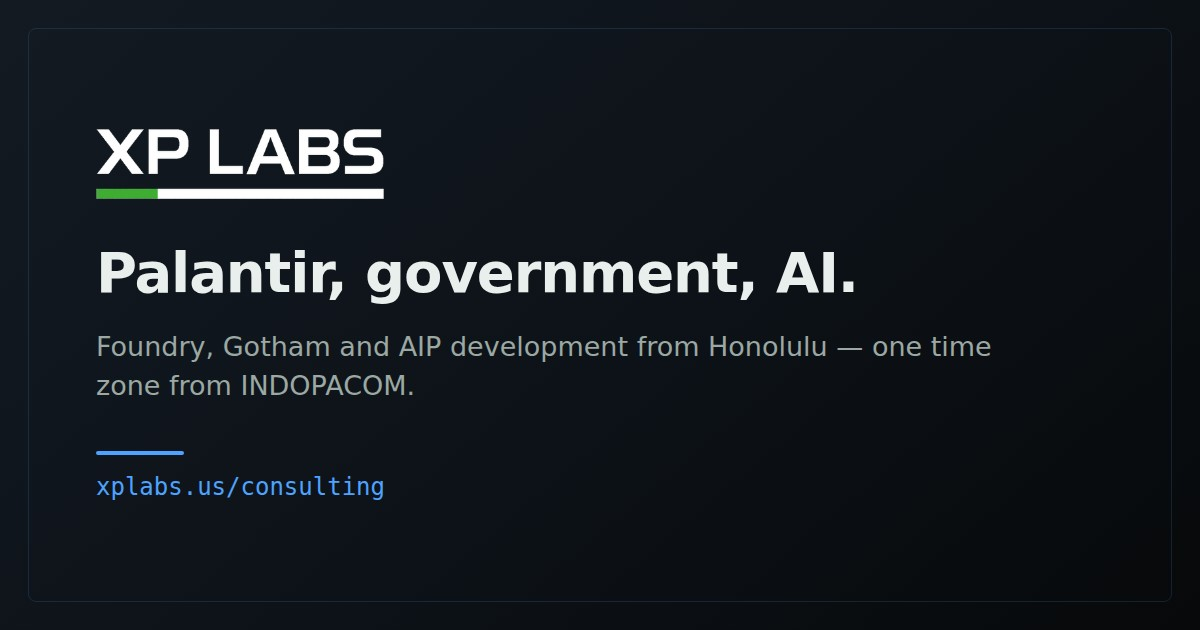
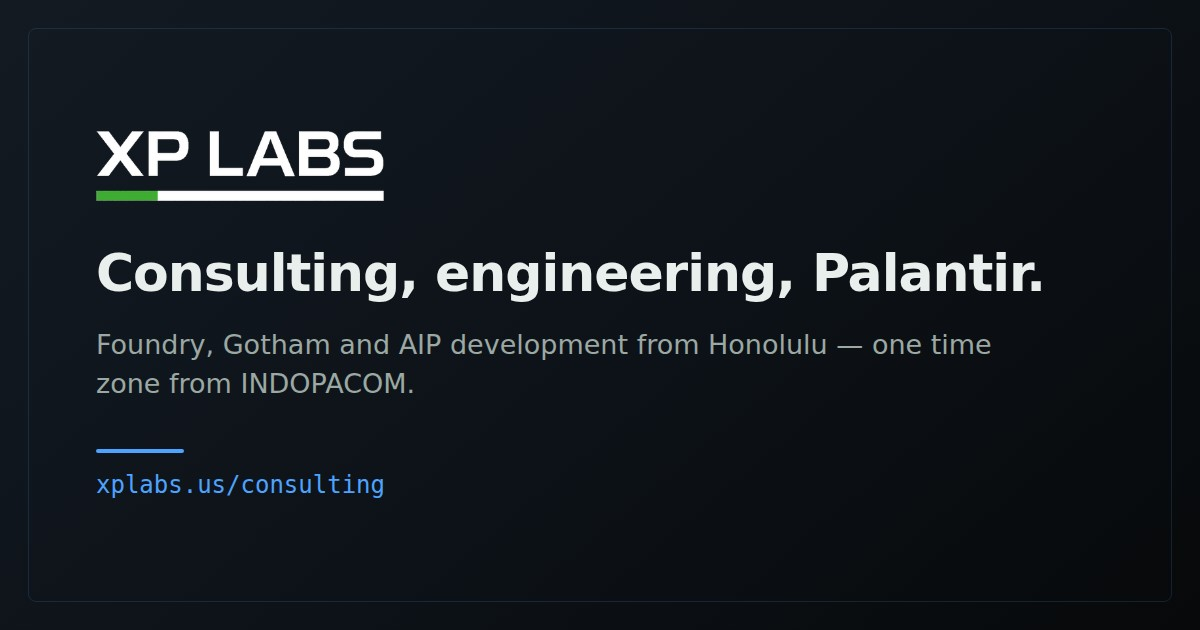
Lead the consulting page with consulting, engineering, Palantir
The headline now names the work in the order a buyer meets it: the
consulting and the engineering are what XPLabs is hired for, and
Palantir is the platform a growing share of that lands on. Leading on
the vendor read as a Palantir shop that also does other things, which
is the wrong way round.

The lead paragraph is reordered to follow the headline rather than
argue with it, and the same triad now runs through the page title, the
preview card and the nav subtitle on all ten pages that carry it. The
Palantir section itself, and its capability-not-past-performance note,
are unchanged.

Checked at desktop and phone widths for overflow; the longer headline
still sets on one line on the preview card.

Claude-Session: https://claude.ai/code/session_018S2unUdBGTgnSZF6RTnZGq

diff --git a/sites/www/consulting/index.html b/sites/www/consulting/index.html
@@ -3,21 +3,21 @@
 <head>
 <meta charset="utf-8">
 <meta name="viewport" content="width=device-width, initial-scale=1">
-<title>Palantir &amp; government consulting — XPLabs</title>
+<title>Consulting, engineering, Palantir — XPLabs</title>
 <meta name="description" content="Palantir platform development from Honolulu: data consolidation, common operational picture (COP) creation, visualization and ontology work across Foundry, Gotham and AIP — plus government contract consulting and AI implementation.">
 <meta name="theme-color" content="#07090A">
 <meta name="color-scheme" content="dark">
 <link rel="icon" href="/favicon-32.png" sizes="32x32">
 <link rel="apple-touch-icon" href="/apple-touch-icon.png">
 <link rel="canonical" href="https://xplabs.us/consulting/">
-<meta property="og:title" content="Palantir &amp; government consulting — XPLabs">
+<meta property="og:title" content="Consulting, engineering, Palantir — XPLabs">
 <meta property="og:description" content="Palantir platform development from Honolulu — data consolidation, COP creation and visualization across Foundry, Gotham and AIP. One time zone from INDOPACOM.">
 <meta property="og:type" content="website">
 <meta property="og:url" content="https://xplabs.us/consulting/">
 <meta property="og:image" content="https://xplabs.us/consulting/og.jpg?v=2">
 <meta property="og:image:width" content="1200">
 <meta property="og:image:height" content="630">
-<meta property="og:image:alt" content="XP Labs — Palantir Foundry, Gotham and AIP development, government consulting and AI. xplabs.us/consulting">
+<meta property="og:image:alt" content="XP Labs — consulting, engineering and Palantir platform development. xplabs.us/consulting">
 <meta name="twitter:card" content="summary_large_image">
 <meta name="twitter:image" content="https://xplabs.us/consulting/og.jpg?v=2">
 
@@ -243,7 +243,7 @@ h1{font-size:var(--t-h2);line-height:1.04;letter-spacing:-.032em;margin:0 0 1.25
         </button>
         <div class="menu__panel" id="menu-businesses" hidden>
           <a href="https://play.xplabs.us/"><b>Games</b><span>Four titles, four stacks</span></a>
-          <a href="/consulting/"><b>Consulting</b><span>Palantir · government · AI</span></a>
+          <a href="/consulting/"><b>Consulting</b><span>Consulting · engineering · Palantir</span></a>
           <a href="/initiatives/"><b>Public Initiatives</b><span>Free education and benefits</span></a>
         </div>
       </div>
@@ -272,9 +272,9 @@ h1{font-size:var(--t-h2);line-height:1.04;letter-spacing:-.032em;margin:0 0 1.25
     <span class="tick" aria-hidden="true"><i></i><i></i><i></i><i></i></span>
     Consulting · Honolulu, Hawaii
   </p>
-  <h1>Palantir, government, AI.</h1>
-  <p class="lead">XPLabs builds on <strong>Palantir Foundry, Gotham and AIP</strong>, and takes on
-  public-sector consulting, custom software and AI implementation — with a bias toward systems that
+  <h1>Consulting, engineering, Palantir.</h1>
+  <p class="lead">XPLabs takes on public-sector consulting and custom engineering, and builds on
+  <strong>Palantir Foundry, Gotham and AIP</strong> — with a bias toward systems that
   <strong>still work when nobody is watching them</strong>.</p>
 </section>
 

diff --git a/sites/play/index.html b/sites/play/index.html
@@ -204,7 +204,7 @@ h1{font-size:var(--t-h2);line-height:1.04;letter-spacing:-.032em;margin:0 0 1.25
         </button>
         <div class="menu__panel" id="menu-businesses" hidden>
           <a href="/"><b>Games</b><span>Four titles, four stacks</span></a>
-          <a href="https://xplabs.us/consulting/"><b>Consulting</b><span>Palantir · government · AI</span></a>
+          <a href="https://xplabs.us/consulting/"><b>Consulting</b><span>Consulting · engineering · Palantir</span></a>
           <a href="https://xplabs.us/initiatives/"><b>Public Initiatives</b><span>Free education and benefits</span></a>
         </div>
       </div>

diff --git a/sites/www/about/index.html b/sites/www/about/index.html
@@ -196,7 +196,7 @@ h1{font-size:var(--t-h2);line-height:1.04;letter-spacing:-.032em;margin:0 0 1.25
         </button>
         <div class="menu__panel" id="menu-businesses" hidden>
           <a href="https://play.xplabs.us/"><b>Games</b><span>Four titles, four stacks</span></a>
-          <a href="/consulting/"><b>Consulting</b><span>Palantir · government · AI</span></a>
+          <a href="/consulting/"><b>Consulting</b><span>Consulting · engineering · Palantir</span></a>
           <a href="/initiatives/"><b>Public Initiatives</b><span>Free education and benefits</span></a>
         </div>
       </div>

diff --git a/sites/www/index.html b/sites/www/index.html
@@ -234,7 +234,7 @@ h1{font-size:var(--t-h2);line-height:1.04;letter-spacing:-.032em;margin:0 0 1.25
         </button>
         <div class="menu__panel" id="menu-businesses" hidden>
           <a href="https://play.xplabs.us/"><b>Games</b><span>Four titles, four stacks</span></a>
-          <a href="/consulting/"><b>Consulting</b><span>Palantir · government · AI</span></a>
+          <a href="/consulting/"><b>Consulting</b><span>Consulting · engineering · Palantir</span></a>
           <a href="/initiatives/"><b>Public Initiatives</b><span>Free education and benefits</span></a>
         </div>
       </div>

diff --git a/sites/www/initiatives/index.html b/sites/www/initiatives/index.html
@@ -215,7 +215,7 @@ h1{font-size:var(--t-h2);line-height:1.04;letter-spacing:-.032em;margin:0 0 1.25
         </button>
         <div class="menu__panel" id="menu-businesses" hidden>
           <a href="https://play.xplabs.us/"><b>Games</b><span>Four titles, four stacks</span></a>
-          <a href="/consulting/"><b>Consulting</b><span>Palantir · government · AI</span></a>
+          <a href="/consulting/"><b>Consulting</b><span>Consulting · engineering · Palantir</span></a>
           <a href="/initiatives/"><b>Public Initiatives</b><span>Free education and benefits</span></a>
         </div>
       </div>

diff --git a/sites/www/invest/index.html b/sites/www/invest/index.html
@@ -219,7 +219,7 @@ h1{font-size:var(--t-h2);line-height:1.04;letter-spacing:-.032em;margin:0 0 1.25
         </button>
         <div class="menu__panel" id="menu-businesses" hidden>
           <a href="https://play.xplabs.us/"><b>Games</b><span>Four titles, four stacks</span></a>
-          <a href="/consulting/"><b>Consulting</b><span>Palantir · government · AI</span></a>
+          <a href="/consulting/"><b>Consulting</b><span>Consulting · engineering · Palantir</span></a>
           <a href="/initiatives/"><b>Public Initiatives</b><span>Free education and benefits</span></a>
         </div>
       </div>

diff --git a/sites/mil/directory_template.html b/sites/mil/directory_template.html
@@ -254,7 +254,7 @@ a{color:var(--accent)}
         </button>
         <div class="xpl-panel xpl-panel--left" id="xpl-biz" hidden>
           <a href="https://play.xplabs.us/"><b>Games</b><span>Four titles, four stacks</span></a>
-          <a href="https://xplabs.us/consulting/"><b>Consulting</b><span>Palantir · government · AI</span></a>
+          <a href="https://xplabs.us/consulting/"><b>Consulting</b><span>Consulting · engineering · Palantir</span></a>
           <a href="https://xplabs.us/initiatives/"><b>Public Initiatives</b><span>Free education and benefits</span></a>
         </div>
       </div>

diff --git a/sites/mil/index.html b/sites/mil/index.html
@@ -254,7 +254,7 @@ a{color:var(--accent)}
         </button>
         <div class="xpl-panel xpl-panel--left" id="xpl-biz" hidden>
           <a href="https://play.xplabs.us/"><b>Games</b><span>Four titles, four stacks</span></a>
-          <a href="https://xplabs.us/consulting/"><b>Consulting</b><span>Palantir · government · AI</span></a>
+          <a href="https://xplabs.us/consulting/"><b>Consulting</b><span>Consulting · engineering · Palantir</span></a>
           <a href="https://xplabs.us/initiatives/"><b>Public Initiatives</b><span>Free education and benefits</span></a>
         </div>
       </div>

diff --git a/sites/learn/index.html b/sites/learn/index.html
@@ -115,7 +115,7 @@
         </button>
         <div class="xpl-panel xpl-panel--left" id="xpl-biz" hidden>
           <a href="https://play.xplabs.us/"><b>Games</b><span>Four titles, four stacks</span></a>
-          <a href="https://xplabs.us/consulting/"><b>Consulting</b><span>Palantir · government · AI</span></a>
+          <a href="https://xplabs.us/consulting/"><b>Consulting</b><span>Consulting · engineering · Palantir</span></a>
           <a href="https://xplabs.us/initiatives/"><b>Public Initiatives</b><span>Free education and benefits</span></a>
         </div>
       </div>

diff --git a/tools/sync_satellite_nav.py b/tools/sync_satellite_nav.py
@@ -36,7 +36,7 @@ ROOT = os.path.dirname(os.path.dirname(os.path.abspath(__file__)))
 HOME = 'https://xplabs.us/'
 LINKS = {
     'games': ('https://play.xplabs.us/', 'Games', 'Four titles, four stacks'),
-    'consulting': ('https://xplabs.us/consulting/', 'Consulting', 'Palantir · government · AI'),
+    'consulting': ('https://xplabs.us/consulting/', 'Consulting', 'Consulting · engineering · Palantir'),
     'initiatives': ('https://xplabs.us/initiatives/', 'Public Initiatives', 'Free education and benefits'),
     'mil': ('https://mil.xplabs.us/', 'Military Personnel', 'Benefits, programs, discounts'),
     'learn': ('https://learn.xplabs.us/', 'Opensource Education', '106 subjects, works offline'),
